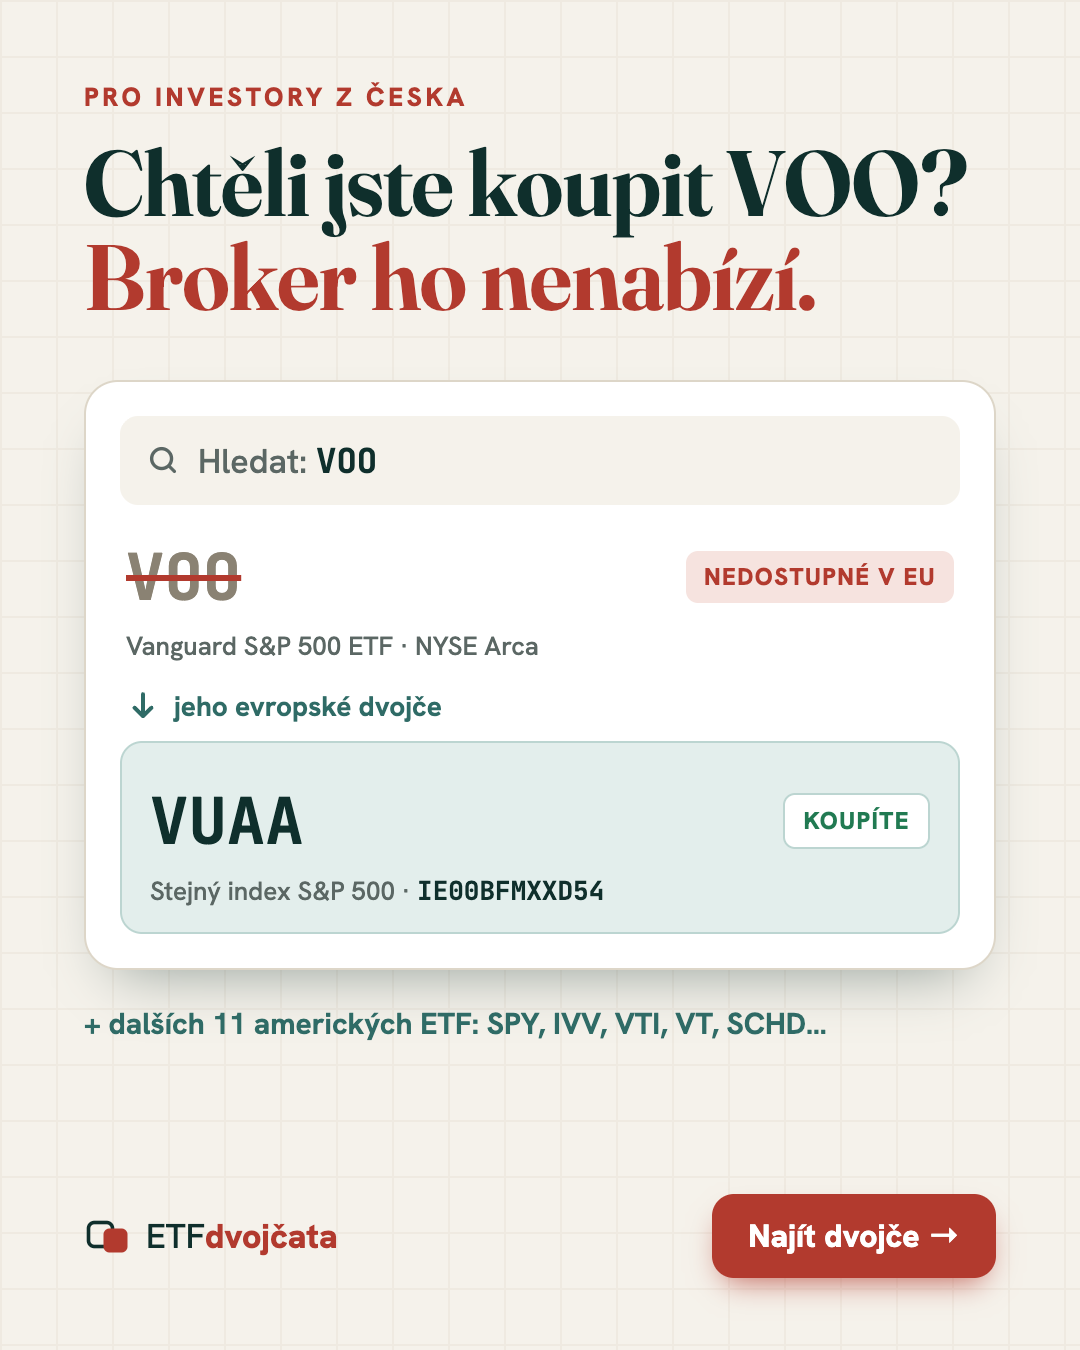
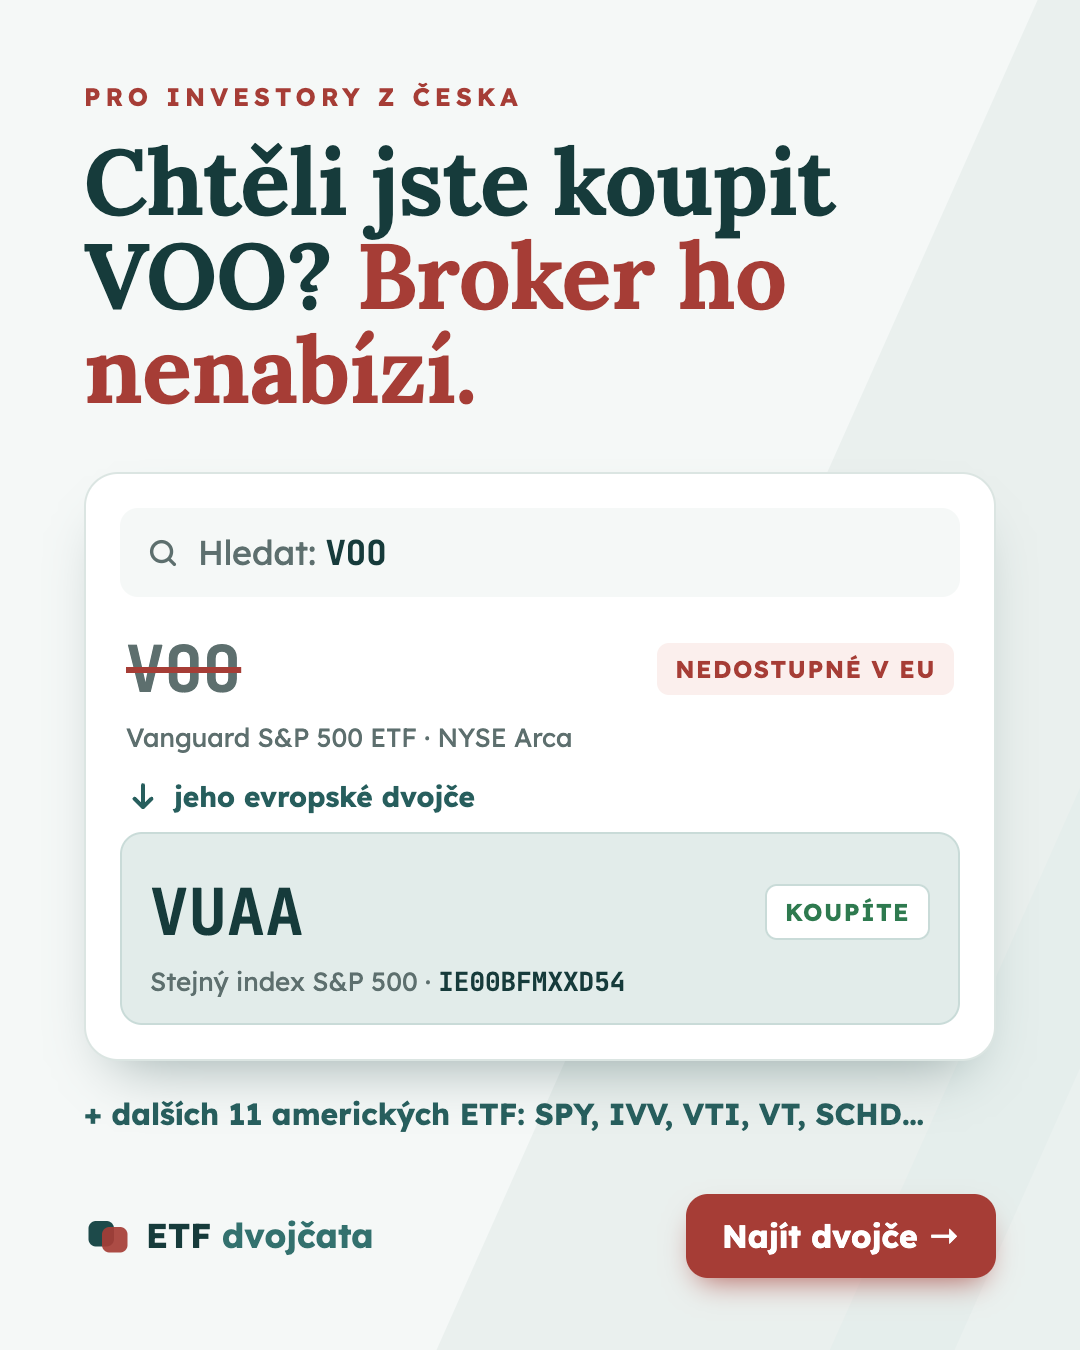
style(ads): restyle ad creatives and OG image to the new design
Also points the ads README to the TypeScript calculator.

diff --git a/ads/ad-a.html b/ads/ad-a.html
@@ -1,33 +1,33 @@
 <!doctype html><html lang="cs"><head><meta charset="utf-8"><link rel="stylesheet" href="_base.css">
 <style>
-.phone { margin: 56px 0 0; background: #fff; border-radius: 34px; border: 2px solid #ddd6c8; box-shadow: 0 30px 60px -30px rgba(15,47,44,.45); padding: 34px; }
-.search { display: flex; align-items: center; gap: 18px; background: #f5f2eb; border-radius: 18px; padding: 22px 26px; font-size: 34px; color: #5b6764; }
-.search b { color: #0f2f2c; }
+.phone { margin: 56px 0 0; background: #fff; border-radius: 34px; border: 2px solid #dbe5e2; box-shadow: 0 30px 60px -30px rgba(22,59,59,.45); padding: 34px; }
+.search { display: flex; align-items: center; gap: 18px; background: #f5f8f7; border-radius: 18px; padding: 22px 26px; font-size: 34px; color: #5d6f6e; }
+.search b { color: #163b3b; }
 .row { display: flex; align-items: center; justify-content: space-between; padding: 30px 6px 4px; }
 .t { font-size: 64px; }
-.no .t { color: #8a8273; text-decoration: line-through; text-decoration-color: #b23a2e; text-decoration-thickness: 6px; }
-.badge { font: 800 24px/1 "Hanken Grotesk"; letter-spacing: .06em; text-transform: uppercase; padding: 14px 18px; border-radius: 12px; }
-.badge.no { background: #f6e3df; color: #b23a2e; }
-.badge.yes { background: #fff; color: #217a52; border: 2px solid #bcd5d1; }
-.sub { font-size: 26px; color: #5b6764; padding: 6px 6px 0; }
-.arrow { display: flex; align-items: center; gap: 14px; color: #2f6b66; font: 700 28px/1 "Hanken Grotesk"; padding: 26px 6px 0; }
-.yes-box { margin-top: 18px; background: #e3eeec; border: 2px solid #bcd5d1; border-radius: 22px; padding: 6px 22px 24px; }
-.more { margin-top: 34px; font: 700 30px/1.3 "Hanken Grotesk"; color: #2f6b66; }
+.no .t { color: #5d6f6e; text-decoration: line-through; text-decoration-color: #a63d36; text-decoration-thickness: 6px; }
+.badge { font: 700 24px/1 "Lexend"; letter-spacing: .06em; text-transform: uppercase; padding: 14px 18px; border-radius: 12px; }
+.badge.no { background: #fbefed; color: #a63d36; }
+.badge.yes { background: #fff; color: #2e7a4f; border: 2px solid #c9dbd8; }
+.sub { font-size: 26px; color: #5d6f6e; padding: 6px 6px 0; }
+.arrow { display: flex; align-items: center; gap: 14px; color: #275e5d; font: 700 28px/1 "Lexend"; padding: 26px 6px 0; }
+.yes-box { margin-top: 18px; background: #e2ecea; border: 2px solid #c9dbd8; border-radius: 22px; padding: 6px 22px 24px; }
+.more { margin-top: 34px; font: 700 30px/1.3 "Lexend"; color: #275e5d; }
 </style></head><body><div class="grid"></div>
 <div class="pad">
   <p class="eyebrow">Pro investory z Česka</p>
   <h1>Chtěli jste koupit VOO? <em>Broker ho nenabízí.</em></h1>
   <div class="phone">
-    <div class="search"><svg width="34" height="34" viewBox="0 0 24 24" fill="none" stroke="#5b6764" stroke-width="2.4" stroke-linecap="round"><circle cx="11" cy="11" r="7"/><path d="m20 20-3.5-3.5"/></svg><span>Hledat: <b class="mono">VOO</b></span></div>
+    <div class="search"><svg width="34" height="34" viewBox="0 0 24 24" fill="none" stroke="#5d6f6e" stroke-width="2.4" stroke-linecap="round"><circle cx="11" cy="11" r="7"/><path d="m20 20-3.5-3.5"/></svg><span>Hledat: <b class="mono">VOO</b></span></div>
     <div class="row no"><span class="t mono">VOO</span><span class="badge no">Nedostupné v EU</span></div>
     <p class="sub">Vanguard S&amp;P 500 ETF · NYSE Arca</p>
     <div class="arrow"><svg width="34" height="34" viewBox="0 0 20 20"><path d="M10 3v13m-5-5 5 5 5-5" fill="none" stroke="currentColor" stroke-width="2.4" stroke-linecap="round" stroke-linejoin="round"/></svg> jeho evropské dvojče</div>
     <div class="yes-box">
       <div class="row"><span class="t mono">VUAA</span><span class="badge yes">Koupíte</span></div>
-      <p class="sub">Stejný index S&amp;P 500 · <span class="mono" style="color:#0f2f2c">IE00BFMXXD54</span></p>
+      <p class="sub">Stejný index S&amp;P 500 · <span class="mono" style="color:#163b3b">IE00BFMXXD54</span></p>
     </div>
   </div>
   <p class="more">+ dalších 11 amerických ETF: SPY, IVV, VTI, VT, SCHD…</p>
 </div>
-<div class="foot"><div class="logo"><svg width="48" height="48" viewBox="0 0 32 32"><rect x="3" y="7" width="16" height="16" rx="4" fill="none" stroke="#0f2f2c" stroke-width="2.4"/><rect x="13" y="11" width="16" height="16" rx="4" fill="#b23a2e"/></svg><span>ETF<b>dvojčata</b></span></div><div class="cta">Najít dvojče →</div></div>
+<div class="foot"><div class="logo"><svg width="48" height="48" viewBox="0 0 32 32"><rect x="3" y="6" width="17" height="17" rx="5" fill="#1d4a4a"/><rect x="12" y="10" width="17" height="17" rx="5" fill="#a63d36" fill-opacity=".92"/></svg><span>ETF <b>dvojčata</b></span></div><div class="cta">Najít dvojče →</div></div>
 </body></html>

diff --git a/ads/ad-b.html b/ads/ad-b.html
@@ -1,26 +1,26 @@
 <!doctype html><html lang="cs"><head><meta charset="utf-8"><link rel="stylesheet" href="_base.css">
 <style>
-.card { margin-top: 60px; background: #0f2f2c; color: #e7efed; border-radius: 36px; padding: 48px 48px 44px; box-shadow: 0 30px 60px -30px rgba(15,47,44,.6); }
-.lbl { font: 800 22px/1 "Hanken Grotesk"; letter-spacing: .12em; text-transform: uppercase; color: #93aaa6; margin-bottom: 30px; }
+.card { margin-top: 60px; background: #163b3b; color: #e7efed; border-radius: 36px; padding: 48px 48px 44px; box-shadow: 0 30px 60px -30px rgba(22,59,59,.6); }
+.lbl { font: 700 22px/1 "Lexend"; letter-spacing: .12em; text-transform: uppercase; color: #9fbcb8; margin-bottom: 30px; }
 .row { margin-bottom: 30px; }
 .row .top { display: flex; justify-content: space-between; align-items: baseline; font-size: 30px; color: #b9cbc8; margin-bottom: 14px; }
 .row .top b { color: #fff; font-size: 40px; }
 .bar { height: 26px; border-radius: 13px; background: rgba(255,255,255,.08); overflow: hidden; }
 .bar i { display: block; height: 100%; border-radius: 13px; }
 .save { border-top: 2px solid rgba(255,255,255,.1); padding-top: 26px; margin-top: 6px; font-size: 32px; color: #d4e2df; }
-.save b { display: block; font: 650 120px/1 "Fraunces", serif; color: #d9a441; margin-top: 6px; }
-.fine { margin-top: 26px; font-size: 21px; line-height: 1.35; color: #5b6764; }
+.save b { display: block; font: 700 120px/1 "Lora", serif; color: #f3b2aa; margin-top: 6px; }
+.fine { margin-top: 26px; font-size: 21px; line-height: 1.35; color: #5d6f6e; }
 </style></head><body><div class="grid"></div>
 <div class="pad">
   <p class="eyebrow">3 000 Kč měsíčně · 20 let</p>
   <h1>Kolik vám sebere <em>fond&nbsp;z&nbsp;banky?</em></h1>
   <div class="card">
     <p class="lbl">Na poplatcích zaplatíte</p>
-    <div class="row"><div class="top"><span>Akciový fond z banky</span><b>442 100 Kč</b></div><div class="bar"><i style="width:100%;background:#e2725f"></i></div></div>
-    <div class="row"><div class="top"><span>ETF na S&amp;P 500</span><b>13 000 Kč</b></div><div class="bar"><i style="width:3%;background:#7fd0a6"></i></div></div>
+    <div class="row"><div class="top"><span>Akciový fond z banky</span><b>442 100 Kč</b></div><div class="bar"><i style="width:100%;background:#e07a6c"></i></div></div>
+    <div class="row"><div class="top"><span>ETF na S&amp;P 500</span><b>13 000 Kč</b></div><div class="bar"><i style="width:3%;background:#9fd1cb"></i></div></div>
     <p class="save">Rozdíl ve vaší kapse<b>429 100 Kč</b></p>
   </div>
   <p class="fine">Příklad: ČSOB Akciový (vstup 3 %, náklady 2,59 % ročně dle KID k 1. 6. 2026) vs. VUAA (0,07 %). Výnos trhu 7 % ročně, ilustrace, ne předpověď.</p>
 </div>
-<div class="foot"><div class="logo"><svg width="48" height="48" viewBox="0 0 32 32"><rect x="3" y="7" width="16" height="16" rx="4" fill="none" stroke="#0f2f2c" stroke-width="2.4"/><rect x="13" y="11" width="16" height="16" rx="4" fill="#b23a2e"/></svg><span>ETF<b>dvojčata</b></span></div><div class="cta">Spočítat →</div></div>
+<div class="foot"><div class="logo"><svg width="48" height="48" viewBox="0 0 32 32"><rect x="3" y="6" width="17" height="17" rx="5" fill="#1d4a4a"/><rect x="12" y="10" width="17" height="17" rx="5" fill="#a63d36" fill-opacity=".92"/></svg><span>ETF <b>dvojčata</b></span></div><div class="cta">Spočítat →</div></div>
 </body></html>

diff --git a/ads/_base.css b/ads/_base.css
@@ -1,14 +1,17 @@
-@import url("https://fonts.googleapis.com/css2?family=Fraunces:opsz,wght@9..144,650&family=Hanken+Grotesk:wght@500;700;800&family=JetBrains+Mono:wght@700&display=swap");
+@import url("https://fonts.googleapis.com/css2?family=Lora:wght@700&family=Lexend:wght@400;500;700&family=JetBrains+Mono:wght@700&display=swap");
 * { box-sizing: border-box; margin: 0; }
 html, body { width: 1080px; height: 1350px; }
-body { font-family: "Hanken Grotesk", sans-serif; background: #f5f2eb; color: #0f2f2c; position: relative; overflow: hidden; }
-.grid { position: absolute; inset: 0; background-image: linear-gradient(#ece7dc 2px, transparent 2px), linear-gradient(90deg, #ece7dc 2px, transparent 2px); background-size: 56px 56px; opacity: .7; }
+body { font-family: "Lexend", sans-serif; background: #f5f8f7; color: #163b3b; position: relative; overflow: hidden; }
+.grid { position: absolute; inset: 0; overflow: hidden; }
+.grid::before, .grid::after { content: ""; position: absolute; background: #e7eeec; transform: skewX(-24deg); }
+.grid::before { width: 48%; height: 120%; right: -14%; top: -6%; opacity: .8; }
+.grid::after { width: 30%; height: 80%; right: -18%; top: 40%; background: #e2ecea; opacity: .6; }
 .pad { position: relative; padding: 84px 84px 0; }
-.eyebrow { font: 800 26px/1 "Hanken Grotesk"; letter-spacing: .14em; text-transform: uppercase; color: #b23a2e; margin-bottom: 26px; }
-h1 { font: 650 92px/1.02 "Fraunces", serif; letter-spacing: -.005em; }
-h1 em { font-style: normal; color: #b23a2e; }
+.eyebrow { font: 600 25px/1 "Lexend"; letter-spacing: .2em; text-transform: uppercase; color: #a63d36; margin-bottom: 26px; }
+h1 { font: 700 92px/1.02 "Lora", serif; letter-spacing: -.005em; }
+h1 em { font-style: normal; color: #a63d36; }
 .mono { font-family: "JetBrains Mono", monospace; }
 .foot { position: absolute; left: 84px; right: 84px; bottom: 72px; display: flex; align-items: center; justify-content: space-between; }
-.logo { display: flex; align-items: center; gap: 14px; font: 500 34px/1 "Hanken Grotesk"; }
-.logo b { font-weight: 800; color: #b23a2e; }
-.cta { background: #b23a2e; color: #fff; font: 800 32px/1 "Hanken Grotesk"; padding: 26px 36px; border-radius: 22px; box-shadow: 0 14px 30px -12px rgba(178,58,46,.8); }
+.logo { display: flex; align-items: center; gap: 14px; font: 700 34px/1 "Lexend"; }
+.logo b { font-weight: 700; color: #33716e; }
+.cta { background: #a63d36; color: #fff; font: 700 32px/1 "Lexend"; padding: 26px 36px; border-radius: 22px; box-shadow: 0 14px 30px -12px rgba(166,61,54,.8); }

diff --git a/ads/og.html b/ads/og.html
@@ -6,12 +6,12 @@ h1 { font-size: 72px; }
 .eyebrow { font-size: 20px; margin-bottom: 18px; }
 .pair { display: grid; gap: 16px; }
 .box { border-radius: 22px; padding: 22px 26px; font: 700 52px/1 "JetBrains Mono", monospace; display: flex; justify-content: space-between; align-items: center; }
-.box small { font: 800 18px/1 "Hanken Grotesk"; letter-spacing: .06em; text-transform: uppercase; padding: 10px 12px; border-radius: 10px; }
-.us { background: #fffdf9; border: 2px dashed #c9bfae; color: #8a8273; }
-.us span { text-decoration: line-through; text-decoration-color: #b23a2e; text-decoration-thickness: 5px; }
-.us small { background: #f6e3df; color: #b23a2e; }
-.eu { background: #e3eeec; border: 2px solid #bcd5d1; color: #0f2f2c; }
-.eu small { background: #fff; color: #217a52; }
+.box small { font: 700 18px/1 "Lexend"; letter-spacing: .06em; text-transform: uppercase; padding: 10px 12px; border-radius: 10px; }
+.us { background: #ffffff; border: 2px dashed #c9dbd8; color: #5d6f6e; }
+.us span { text-decoration: line-through; text-decoration-color: #a63d36; text-decoration-thickness: 5px; }
+.us small { background: #fbefed; color: #a63d36; }
+.eu { background: #e2ecea; border: 2px solid #c9dbd8; color: #163b3b; }
+.eu small { background: #fff; color: #2e7a4f; }
 </style></head><body><div class="grid"></div>
 <div class="pad">
   <div><p class="eyebrow">ETF dvojčata · zdarma</p><h1>VOO si v Česku nekoupíte. <em>Jeho dvojče ano.</em></h1></div>

diff --git a/ads/README.md b/ads/README.md
@@ -15,7 +15,7 @@ Každá verze vede na jinou variantu první obrazovky, takže hero stránky pře
 | URL | `/?ad=twin&utm_source=meta&utm_medium=paid_social&utm_campaign=etf_twins&utm_content=ad_a` | `/?ad=fees&utm_source=meta&utm_medium=paid_social&utm_campaign=etf_twins&utm_content=ad_b` |
 | Hero na stránce | „VOO si v Česku nekoupíte. Jeho dvojče ano.“ + vyhledávač dvojčat | „Fond z banky si bere až 2,6 % ročně. ETF jen 0,07 %.“ + kalkulačka |
 
-**Čísla ve verzi B** počítá stejná funkce jako kalkulačka na stránce (`src/calc.js`): 3 000 Kč/měsíc, 20 let, výnos trhu 7 % p. a.
+**Čísla ve verzi B** počítá stejná funkce jako kalkulačka na stránce (`lib/calc.ts`, test v `tests/calc.test.ts`): 3 000 Kč/měsíc, 20 let, výnos trhu 7 % p. a.
 Jako fond z banky slouží ČSOB Akciový (vstupní poplatek 3 %, průběžné náklady 2,59 % podle KID k 1. 6. 2026) a jako ETF VUAA (TER 0,07 %).
 Poznámka pod čarou je přímo v kreativě, protože finanční reklama bez předpokladů by byla zavádějící.
 
